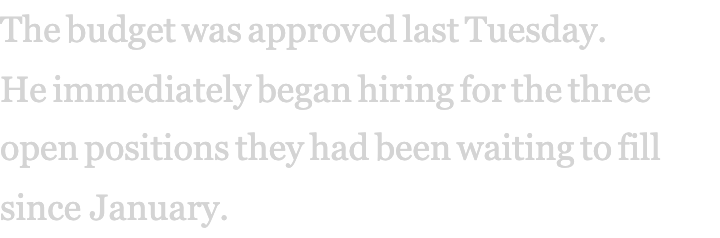
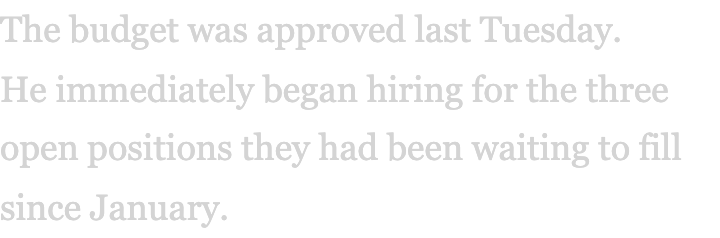
fix: rag demo now shows real before/after difference
- Regenerated example images with optimizeBreaks instead of smoothRag
- Used narrower width (310px) where break quality differences are visible
- Before: 'of' stranded at line end, 'to' stranded, sentence starts mid-line
- After: prepositions bound to nouns, sentence starters at line beginnings
- Updated rule name to 'Break Optimization' with accurate description
- Updated code sample to show Knuth-Plass DP approach

Changed region(s): [[0.0611, 0.2941, 0.9472, 0.4706], [0.1222, 0.5588, 0.9472, 0.7059], [0.0917, 0.0588, 0.8861, 0.2353]]

diff --git a/src/app/rules-data.tsx b/src/app/rules-data.tsx
@@ -36,21 +36,17 @@ export const rules: Rule[] = [
 }`,
   },
   {
-    name: "Rag Smoothing",
+    name: "Break Optimization",
     id: "rag",
     description:
-      "Without rag control, line lengths vary wildly\u00A0\u2014 one line barely reaches half the column while the next fills it. Smoothing adjusts word-spacing line by line, gently extending short lines and tightening long ones for a cleaner right\u00A0edge.",
-    code: `export function smoothRag(el: HTMLElement): void {
-  const target = el.offsetWidth * 0.93;
-  const lines = getLines(el); // detect line breaks via Range API
-  lines.forEach((line, i) => {
-    if (i === lines.length - 1) return; // leave last line alone
-    const gap = target - line.width;
-    const spaces = (line.text.match(/ /g) || []).length;
-    if (!spaces) return;
-    const ws = gap / spaces; // px per word space
-    wrapLine(line, \`word-spacing: \${ws.toFixed(2)}px\`);
-  });
+      "The browser breaks lines greedily\u00A0\u2014 fill until full, then wrap. This leaves prepositions stranded, articles orphaned, and sentences split mid-thought. Break optimization uses dynamic programming to evaluate every possible configuration, keeping words with their syntactic\u00A0partners.",
+    code: `export function optimizeBreaks(el: HTMLElement): void {
+  const words = el.textContent.split(/ +/);
+  const widths = words.map(w => measure(w));
+  // Knuth-Plass DP: find globally optimal breaks
+  const breaks = knuthPlass(widths, spaceWidth, containerWidth);
+  // Bind words at non-break positions with nbsp
+  applyNbspBindings(el, breaks);
 }`,
   },
   {
